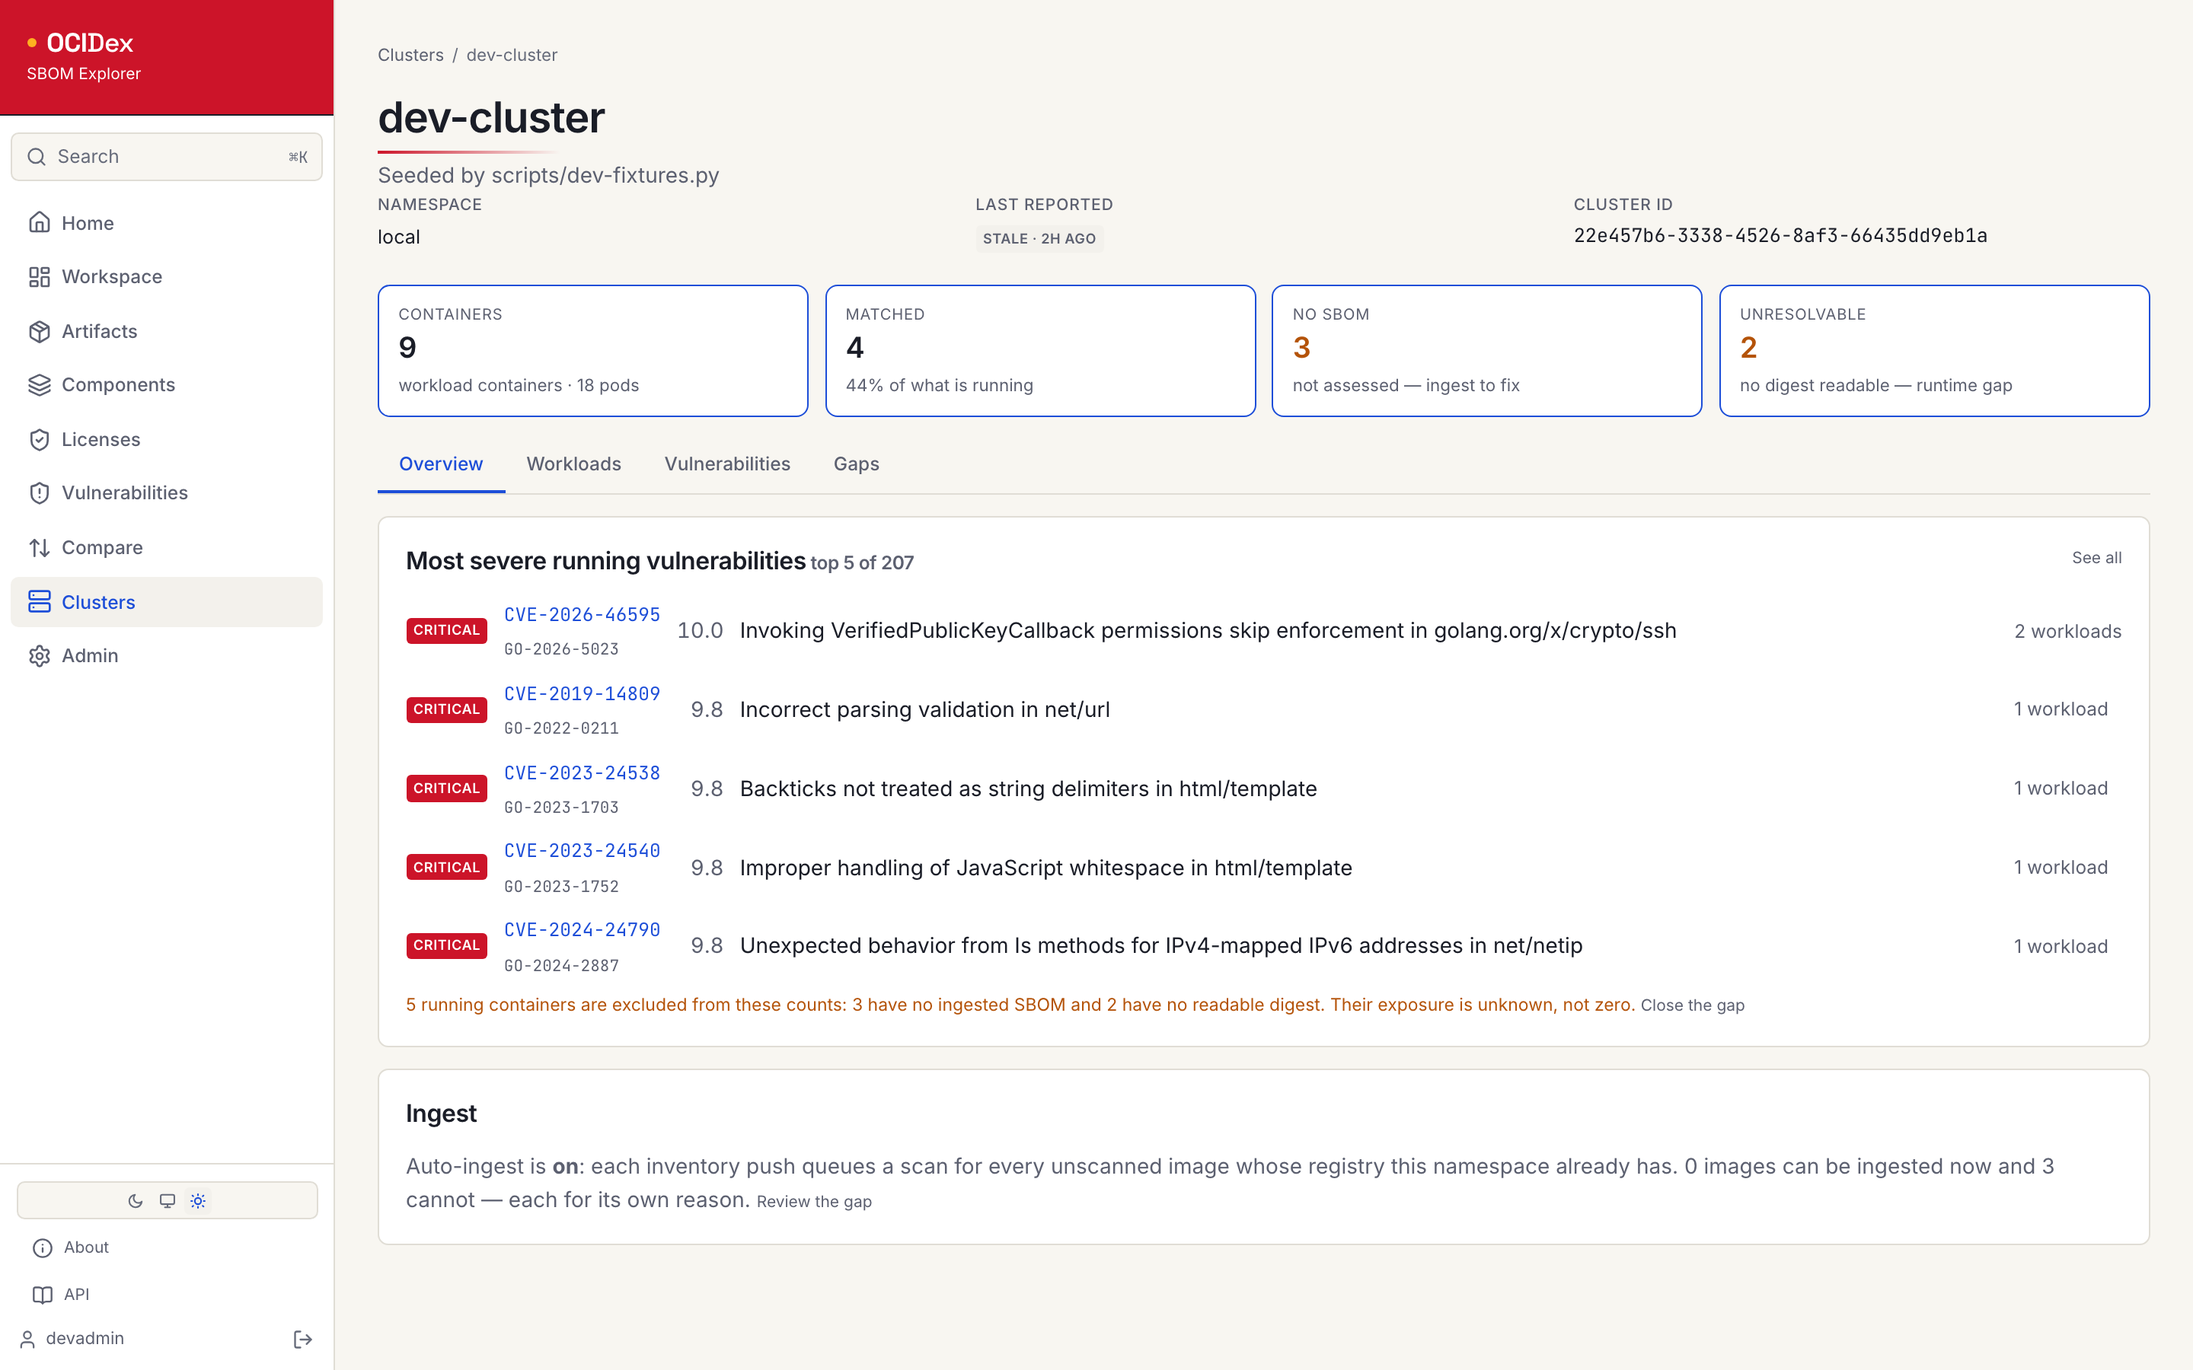
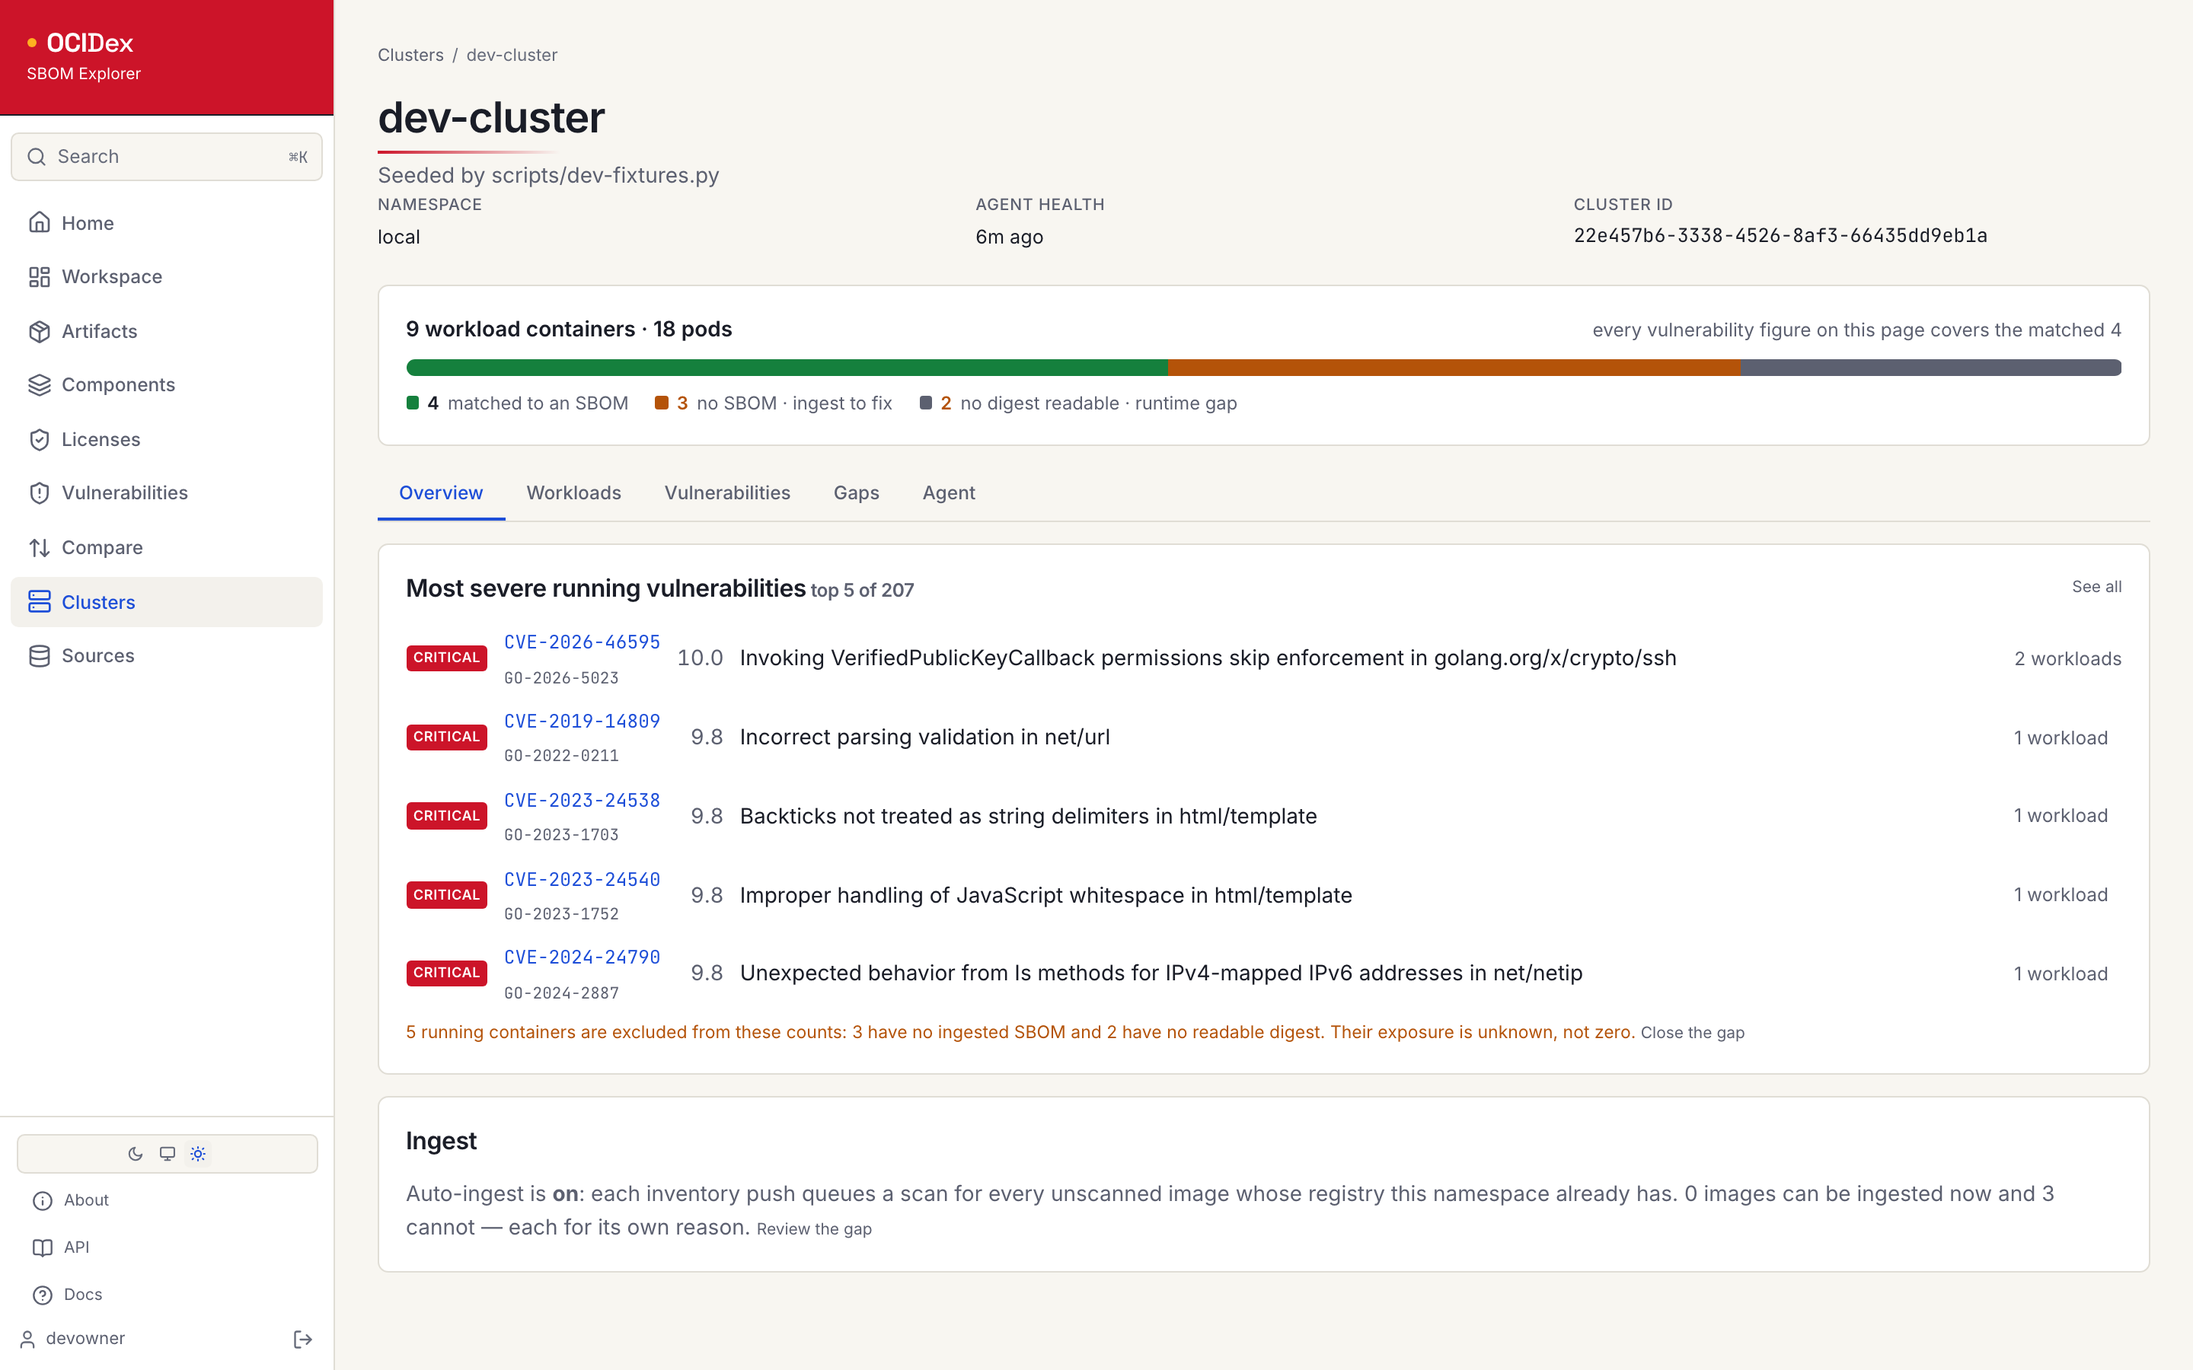
docs(clusters): connect flow, agent credentials, health, retiring, and cluster context across the app (ocidex-70eo.10)

diff --git a/site/src/content/docs/guides/operate/clusters-and-operator.md b/site/src/content/docs/guides/operate/clusters-and-operator.md
@@ -14,46 +14,127 @@ needs no database, NATS or CRDs: it lists pods and sends a snapshot to the API o
 
 ### Install
 
-1. **Register the cluster** in OCIDex, under the namespace it should belong to: on the
-   **Clusters** page, or with the API. Note its id.
+On the **Clusters** page, choose **Connect a cluster**. Name it and pick the namespace that owns it.
+OCIDex creates the cluster and an **agent credential**, then shows one command to run against the
+target cluster:
 
-   ```sh
-   curl -fsS -X POST https://ocidex.example.com/api/v1/clusters \
-     -H "Authorization: Bearer $OCIDEX_API_KEY" -H 'Content-Type: application/json' \
-     -d '{"name":"prod-eu","namespaceId":"<namespace id>"}'
-   ```
+```sh
+helm install ocidex-k8s-agent oci://ghcr.io/pfenerty/charts/ocidex-k8s-agent \
+  --namespace ocidex-agent --create-namespace \
+  --set server.url=https://ocidex.example.com \
+  --set cluster.id=<cluster id> \
+  --set apiKey.value=<key>
+```
 
-2. **Create an API key for the agent.** It needs the `push_inventory` capability, and its owner
-   needs a role that grants it in that namespace (owner, maintainer or developer). Put it in a
-   Secret in the target cluster:
+The page then waits for the agent's first report and updates by itself. If the agent reports but
+OCIDex refuses it, the page says why (see [Health](#health)).
 
-   ```sh
-   kubectl create namespace ocidex-agent
-   kubectl -n ocidex-agent create secret generic ocidex-k8s-agent-secrets \
-     --from-literal=OCIDEX_API_KEY="$OCIDEX_API_KEY"
-   ```
+The key is shown once. If you leave the page before installing, open the cluster again and choose
+**Get install command**: that mints a new credential, and the old one keeps working until you
+revoke it.
 
-3. **Install the chart**, against the target cluster:
+`server.url` is the API's public URL (`API_BASE_URL` when it's set). It's usually outside the
+target cluster, so it must be reachable from there, and its TLS certificate must validate there.
 
-   ```sh
-   helm install ocidex-k8s-agent oci://ghcr.io/pfenerty/charts/ocidex-k8s-agent \
-     -n ocidex-agent --version <version> \
-     --set server.url=https://ocidex.example.com \
-     --set cluster.id=<cluster id>
-   ```
+#### Keeping the key out of Helm values
 
-`server.url` is usually outside the target cluster, so it must be reachable from there, and its TLS
-certificate must validate there.
+`--set apiKey.value` makes the chart create the Secret, so the key is stored in the Helm release.
+Where values live in Git, choose the **values.yaml** form instead. It names a Secret you create
+yourself (sealed-secrets, external-secrets, or `kubectl`), and leaves `apiKey.value` empty:
+
+```yaml
+server:
+  url: https://ocidex.example.com
+cluster:
+  id: <cluster id>
+apiKey:
+  secretName: ocidex-k8s-agent-secrets
+  secretKey: OCIDEX_API_KEY
+```
+
+#### With the API
+
+```sh
+curl -fsS -X POST https://ocidex.example.com/api/v1/clusters/connect \
+  -H "Authorization: Bearer $OCIDEX_API_KEY" -H 'Content-Type: application/json' \
+  -d '{"name":"prod-eu","namespaceId":"<namespace id>"}'
+```
+
+The response holds the cluster and its first credential, with the key. Connecting needs the
+`manage_cluster` and `push_inventory` capabilities in that namespace.
+
+### Agent credentials
+
+An agent credential is an API key bound to one cluster. It can push that cluster's inventory and
+nothing else: every other request is refused, public reads included. Manage credentials on the
+cluster's **Agent** tab: mint, **Rotate** (the old key stops working at once), and **Revoke**.
+Each one shows who minted it and when it was last used.
+
+A credential acts with the roles of whoever minted it, so it stops working if they lose the ability
+to push in that namespace. Rotating re-mints it under your name. Deleting the cluster revokes all
+of its credentials.
+
+To rotate without downtime, mint a second credential, roll the agent onto it with
+`helm upgrade ... --set apiKey.value=<new key>` (the pod restarts on its own), then revoke the
+first.
+
+An ordinary API key with the `push_inventory` capability still works as an agent key. It isn't
+limited to one cluster, though.
+
+### Health
+
+Every push is recorded, refused ones included, and each cluster shows one state:
+
+| State | Meaning |
+| --- | --- |
+| **healthy** | The last push was accepted, and recently |
+| **stale** | No accepted push within three of the agent's report intervals |
+| **erroring** | The agent is pushing and OCIDex is refusing it. The reason says why. |
+| **never reported** | Nothing has arrived yet |
+| **paused** | Someone paused the cluster; pushes are refused on purpose |
+
+The cluster's **Agent** tab lists the last pushes with their result. Common refusals:
+
+| Reason | Fix |
+| --- | --- |
+| The API key was not accepted | The credential was revoked or rotated. Install a new one. |
+| A credential for a different cluster | `cluster.id` doesn't match the credential. Check the values. |
+| The key may not push here | The key's owner lost `push_inventory` in this namespace |
+| The snapshot failed validation | Agent and server versions are far apart. Upgrade the agent chart. |
+
+The agent logs the same reason (`inventory push rejected`, with `status` and `reason` fields).
+It also reports its version, the Kubernetes version, its node count and its report interval, which
+the cluster page shows. When agent and server versions differ by a minor version or more, the page
+flags it.
+
+For alerting, the API exports `ocidex_cluster_health{cluster,namespace,state}`, which is 1 on the
+cluster's current state:
+
+```text
+ocidex_cluster_health{state=~"stale|erroring"} == 1
+```
+
+The agent exports `ocidex_agent_pushes_total{outcome,status}`.
 
 ### Check it
 
 `kubectl -n ocidex-agent logs deploy/ocidex-k8s-agent` shows an `inventory reported` line with
-counts of pods, workloads and unresolvable images, and the cluster's page in OCIDex fills in. A
-cluster that reads *never reported* hasn't received a snapshot at all, which is different from a
-cluster running nothing.
+counts of pods, workloads and unresolvable images, and the cluster page turns healthy.
 
 A non-zero unresolvable count is a real signal: those containers' runtime reports no registry
 digest, usually because of an old node runtime, so they can never be matched to an SBOM.
+
+### Retiring a cluster
+
+On the **Agent** tab, choose **Retire…**. First uninstall the agent
+(`helm uninstall ocidex-k8s-agent -n ocidex-agent`), then either:
+
+- **Pause**: pushes are refused and everything is kept. The last inventory stays readable, the
+  images it lists stay protected from retention, and credentials keep their keys. Resume at any
+  time.
+- **Delete**: the inventory goes, the credentials are revoked, and SBOMs ingested from the cluster
+  stay but no longer record where they came from. Images that ran only there lose their
+  protection from retention.
 
 ### Things that look like bugs and aren't
 
@@ -64,7 +145,7 @@ digest, usually because of an old node runtime, so they can never be matched to 
 
 ### Auto-ingest
 
-Every registered cluster has auto-ingest on by default: each snapshot queues a scan of every
+Every cluster has auto-ingest on by default: each snapshot queues a scan of every
 running image that has no SBOM yet. OCIDex pulls it with the credentials of a registry in the
 cluster's namespace that serves its host, or anonymously when none does. Expect a burst of scans
 after the first snapshot.

diff --git a/site/src/content/docs/guides/use/clusters.md b/site/src/content/docs/guides/use/clusters.md
@@ -5,23 +5,30 @@ sidebar:
   order: 6
 ---
 
-A registered cluster runs the inventory agent, which reports every running container's image.
-Installing it is in the [operator guide](/guides/operate/clusters-and-operator/). The cluster page
+A connected cluster runs the inventory agent, which reports every running container's image.
+Connecting one is in the [operator guide](/guides/operate/clusters-and-operator/). The cluster page
 answers one question: **what's actually running here, and what do we know about it?**
+
+## The cluster list
+
+The **Clusters** page puts problems first. Each row shows the agent's health with its reason
+(*erroring*, *stale*, *never reported*, *healthy* or *paused*), how many containers it runs, how
+much of that is assessed, the critical vulnerabilities running in the assessed part, and the agent
+and Kubernetes versions. A **skew** badge means the agent and server versions differ.
 
 ## The coverage band
 
 ![A cluster page: the coverage band, and the most severe vulnerabilities running in the cluster](../../../../assets/screenshots/cluster.png)
 
-Four tiles sit above the tabs and always describe the **whole cluster**, never the current filter,
-so a filtered table of three clean rows can't pass for a clean cluster.
+A bar above the tabs splits every container in the cluster three ways, and always describes the
+**whole cluster**, never the current filter, so a filtered table of three clean rows can't pass for
+a clean cluster. Each part of the legend links to the rows behind it.
 
-| Tile | Meaning | What to do |
+| Part | Meaning | What to do |
 | --- | --- | --- |
-| **Containers** | Workload containers in the last snapshot, with the pod count beneath | |
-| **Matched** | The image digest matches an ingested SBOM | Nothing: these are assessed |
-| **No SBOM** | A valid registry digest, but nothing ingested for it | Ingest it: see [Gaps](#gaps) |
-| **Unresolvable** | The container runtime reported no registry digest | Upgrade the node's runtime |
+| **Matched** (green) | The image digest matches an ingested SBOM | Nothing: these are assessed |
+| **No SBOM** (amber) | A valid registry digest, but nothing ingested for it | Ingest it: see [Gaps](#gaps) |
+| **No digest readable** (grey) | The container runtime reported no registry digest | Upgrade the node's runtime |
 
 Containers are counted per namespace, workload, container and image, so a three-replica Deployment
 is one container and three pods. Every vulnerability figure on the page counts containers.
@@ -30,13 +37,17 @@ is one container and three pods. Every vulnerability figure on the page counts c
 the counts describe those 40. The other 60 are *not assessed*, which isn't the same as clean, and
 the page says so.
 
-Before the agent's first report, the page shows install commands with this cluster's id instead
-of four zeroed tiles.
+Before the agent's first report there's no bar and no inventory tabs, only the install command and
+a live wait for the first snapshot. A stale, erroring or paused cluster gets a banner above the bar
+that says so, because an old inventory looks exactly like a current one.
 
 ## Tabs
 
-**Overview** shows the five most severe vulnerabilities running in the cluster (headed "top 5 of N"),
-how stale the last report is, and whether auto-ingest is on.
+The header lists what the agent reported about itself: its version, the Kubernetes version and node
+count, how often it reports, and the pod it runs in.
+
+**Overview** shows the five most severe vulnerabilities running in the cluster (headed "top 5 of N")
+and whether auto-ingest is on.
 
 **Workloads** shows the inventory two ways, chosen with **Group by**:
 
@@ -49,6 +60,21 @@ assessed says so in words, never as a zero.
 
 **Vulnerabilities** lists each advisory once, however many workloads run it. Expand a row to see
 which ones do. An advisory's own page shows the reverse: every cluster running it.
+
+**Agent** shows the last pushes with their result and any refusal reason, the cluster's
+[agent credentials](/guides/operate/clusters-and-operator/#agent-credentials), its settings (name,
+description, auto-ingest), and **Retire…** to pause or delete it. Settings and retiring need the
+`manage_cluster` capability.
+
+## Elsewhere in OCIDex
+
+- An **artifact's page** says when it's running and where: a *running in N clusters* badge, a
+  **Running** column on its versions, and a **Running** tab listing every workload.
+- The **Workspace** clusters panel counts your clusters by health and sums the critical
+  vulnerabilities running in them.
+- **Search** (⌘K) finds clusters by name.
+
+Clusters are visible only to signed-in users, and only in namespaces you can see.
 
 ## Gaps
 
@@ -82,7 +108,7 @@ queues what it says.
 ## Auto-ingest
 
 Auto-ingest is **on** for every new cluster: each report queues a scan of every `ready to ingest`
-image. Turn it off per cluster on the **Clusters** page (Edit, then Save).
+image. Turn it off per cluster in the **Agent** tab's settings, or when connecting it.
 
 - **Credentials come only from the cluster's namespace.** A registry in another namespace is never
   used, even for the same host.
@@ -103,7 +129,10 @@ minutes later. A row that stays after its scan finished means the scan failed; t
 
 | Symptom | Cause |
 | --- | --- |
-| The cluster reads *never reported* | The agent has never sent a report. That's different from running nothing. Check the agent's logs. |
+| The cluster reads *never reported* | No snapshot has arrived. That's different from running nothing. Check the agent's logs. |
+| The cluster reads *erroring* | The agent reaches OCIDex and is refused. The reason is on the pill and the Agent tab. See [Health](/guides/operate/clusters-and-operator/#health). |
+| The cluster reads *stale* | No accepted snapshot for three report intervals. The agent is down, or can't reach `server.url`. |
 | Workloads vanished after a configuration change | Each report replaces the whole inventory. Narrowing the agent's namespaces removes the others. |
 | An image shows as a bare hash | The runtime reported an image id with no name, and the pod spec had none either. |
-| Auto-ingest queues nothing | Check the Gaps tab: every state other than `ready` names its fix. If every row is `ready`, the installation has no scanner running. |
+| Gaps says *This deployment can't scan images* | The installation has no scanner. Nothing can be ingested from OCIDex, and auto-ingest does nothing; upload SBOMs instead. |
+| Auto-ingest queues nothing | Check the Gaps tab: every state other than `ready` names its fix. |

diff --git a/site/src/content/docs/concepts/clusters-and-coverage.md b/site/src/content/docs/concepts/clusters-and-coverage.md
@@ -7,9 +7,14 @@ sidebar:
 
 Registry scans tell you what was built. A **cluster** tells you what is running.
 
-Register a Kubernetes cluster in a namespace, install the `ocidex-k8s-agent` in it, and the agent
-sends OCIDex a snapshot of every running container and its image digest. Each snapshot replaces
-the last.
+Connect a Kubernetes cluster to a namespace and run the one `helm install` command OCIDex gives
+you. The `ocidex-k8s-agent` then sends a snapshot of every running container and its image digest.
+Each snapshot replaces the last.
+
+The agent pushes with a credential bound to its cluster, which can do nothing else. OCIDex records
+every push, refused ones too, so a cluster is always in one **health** state: *healthy*, *stale*
+(no recent snapshot), *erroring* (pushing and being refused, with the reason), *never reported* or
+*paused*. A stale cluster's inventory is still shown, and the page says it may be out of date.
 
 ## Coverage
 
@@ -35,3 +40,9 @@ With **auto-ingest** on, which is the default, every snapshot queues a scan of e
 that has no SBOM. OCIDex pulls it with the credentials of a registry in the same namespace that
 serves it, or anonymously when none does. Running images are also protected from retention, so
 what's running stays answerable.
+
+## Where it shows up
+
+Running is context everywhere OCIDex shows an image: an artifact's page says which clusters run
+which of its versions, an advisory's page lists the workloads running it, and the workspace sums
+the critical vulnerabilities running across your clusters.
